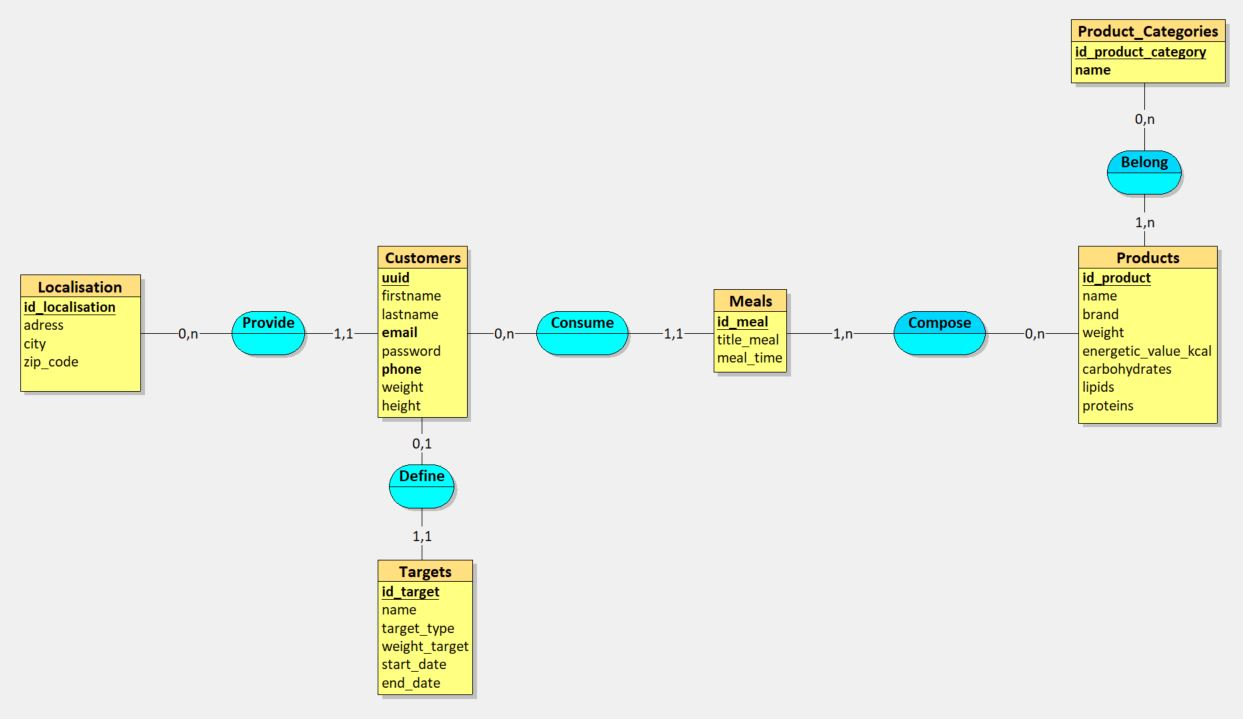
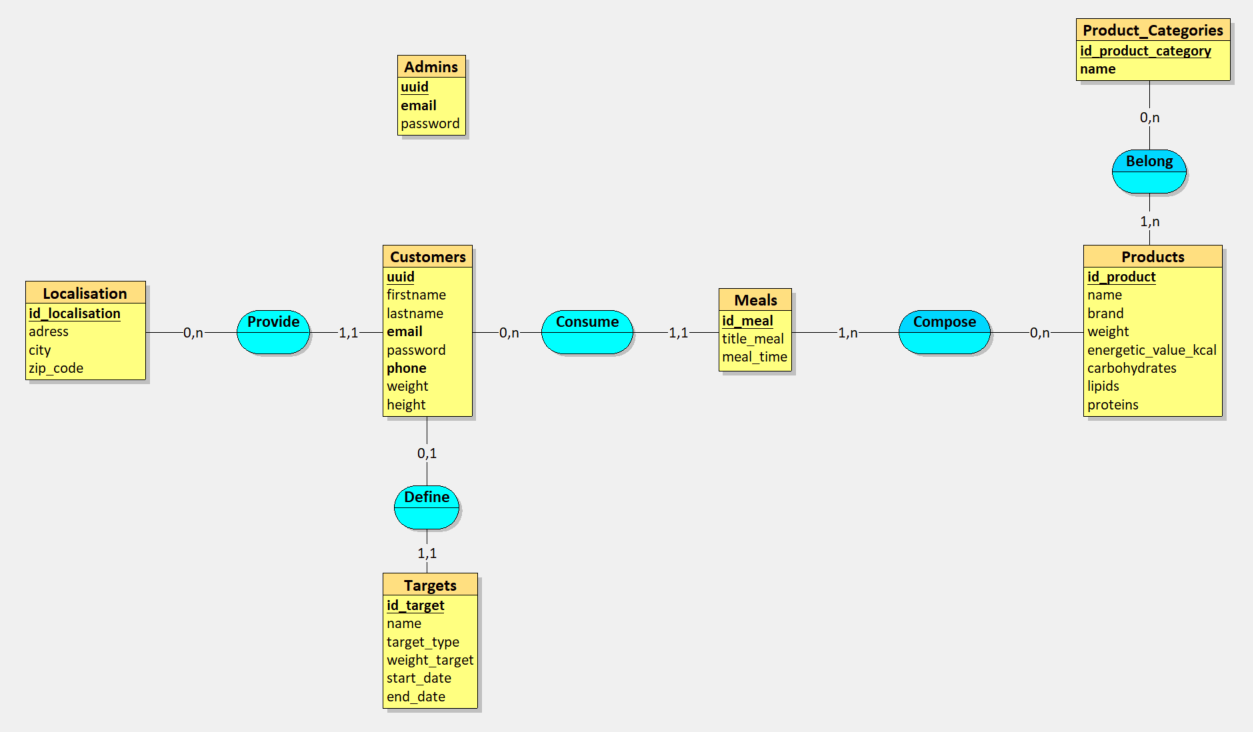
docs: update mcd, mld, mpd

diff --git a/doc/specifications-techniques/conception-bdd.md b/doc/specifications-techniques/conception-bdd.md
@@ -6,7 +6,7 @@
 
 ## MLD
 
-![Réprésentation MLD](../assets/images/mld-calories-tracker.JPG)
+![Réprésentation MLD](../assets/images/mld-calories-tracker.PNG)
 
 ## MPD
 
@@ -36,6 +36,14 @@ CREATE TABLE Localisation(
    city VARCHAR(100) NOT NULL,
    zip_code VARCHAR(10) NOT NULL,
    PRIMARY KEY(id_localisation)
+);
+
+CREATE TABLE Admins(
+   uuid INT,
+   email VARCHAR(255) NOT NULL,
+   password VARCHAR(255) NOT NULL,
+   PRIMARY KEY(uuid),
+   UNIQUE(email)
 );
 
 CREATE TABLE Customers(
@@ -135,3 +143,6 @@ CREATE TABLE Product_Category_Products(
 |                               | id_meal              | INT             | -        | PRIMARY KEY(id_product, id_meal), FOREIGN KEY(id_meal) REFERENCES Meals(id_meal)                                                  | Référence au repas contenant le produit.       | 1                   |
 | **Product_Category_Products** | id_product           | INT             | -        | PRIMARY KEY(id_product, id_product_category), FOREIGN KEY(id_product) REFERENCES Products(id_product)                             | Référence au produit dans la catégorie.        | 1                   |
 |                               | id_product_category  | INT             | -        | PRIMARY KEY(id_product, id_product_category), FOREIGN KEY(id_product_category) REFERENCES Product_Categories(id_product_category) | Référence à la catégorie contenant le produit. | 1                   |
+| **Admins**                    | uuid                 | INT             | -        | PRIMARY KEY                                                                                                                       | Identifiant unique de l'administrateur.        | 1                   |
+|                               | email                | VARCHAR         | 255      | NOT NULL, UNIQUE                                                                                                                  | Adresse email de l'administrateur.             | admin@mail.com      |
+|                               | password             | VARCHAR         | 255      | NOT NULL                                                                                                                          | Mot de passe de l'administrateur.              | adminpass           |
